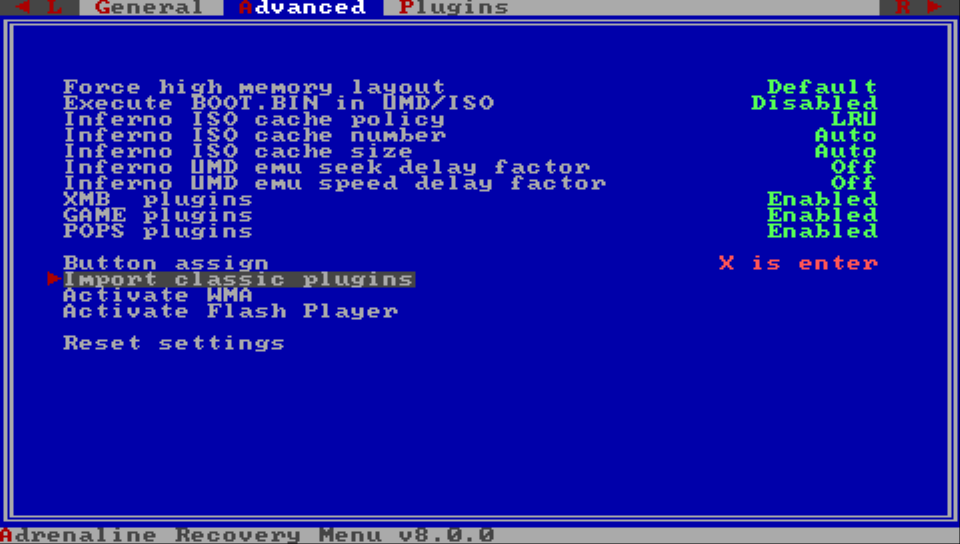
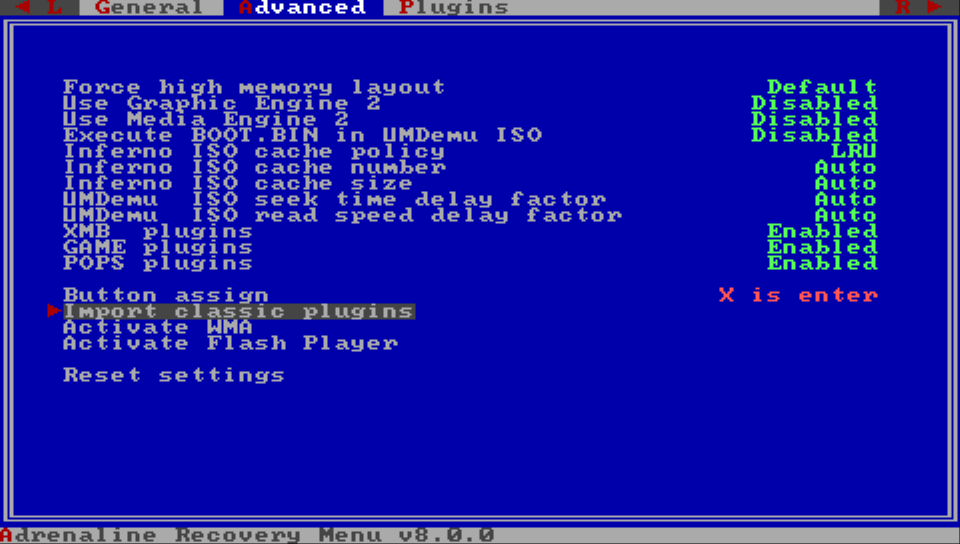
docs: Update CFW options and changelog

diff --git a/cef/recovery/menu.c b/cef/recovery/menu.c
@@ -303,9 +303,9 @@ Entry general_entries[] = {
 
 Entry advanced_entries[] = {
 	{ "Force high memory layout", NULL, highmem, sizeof(highmem), &config.force_high_memory },
-	{ "Execute BOOT.BIN in UMDemu ISO", NULL, disenabled, sizeof(disenabled), &config.execute_boot_bin },
 	{ "Use Graphic Engine 2", NULL, disenabled, sizeof(disenabled), &config.use_ge2 },
 	{ "Use Media Engine 2", NULL, disenabled, sizeof(disenabled), &config.use_me2 },
+	{ "Execute BOOT.BIN in UMDemu ISO", NULL, disenabled, sizeof(disenabled), &config.execute_boot_bin },
 	{ "Inferno ISO cache policy", NULL, iso_cache, sizeof(iso_cache), &config.iso_cache },
 	{ "Inferno ISO cache number", NULL, iso_cache_num, sizeof(iso_cache_num), &config.iso_cache_num },
 	{ "Inferno ISO cache size", NULL, iso_cache_size, sizeof(iso_cache_size), &config.iso_cache_size },

diff --git a/docs/src/08-CfwConfiguration.md b/docs/src/08-CfwConfiguration.md
@@ -175,6 +175,28 @@ Controls whether to force the unlock extra RAM space for the user-space RAM part
 > [!WARNING] Max Option Warning
 > Some important stuff for the VITA's PSPemu are put in this region of memory. Although Adrenaline protects the sub-region that was already identified, those last 16MB region usage was not yet completely investigated and reversed. That means that some system instabilities may occur once things start to be allocated on this region.
 
+### Use Graphic Engine 2
+
+Controls wether to load an alternative implementation of the Graphic Engine module, i.e. loads `ge_2.prx` instead of `ge.prx`.
+
+This is a CFW option made available to tinkerers to explore possible improvement options for apps/games (considering that native PSPemu has similar options for compatibility with officially released PSP titles on VITA). But it is also an advanced option as it may also cause regressions and/or issues with apps/games.
+
+> [!NOTE]
+> The modules being called "2" doesn't mean it is a improved version, but rather a poorly named alternative version to be used as compatibility fixer for a small number of officially released titles.
+>
+> So it is a direct effect of a bad naming because programmers (usually with tight deadlines) are bad at naming things that are very similar in functionality with another existing thing, more so in a thing that is not supposed to be known by end-users... Been there, done that LOL.
+
+### Use Media Engine 2
+
+Controls wether to load an alternative implementation of the Media Engine module, i.e. loads `kermit_me_wrapper_2.prx` instead of `kermit_me_wrapper.prx`.
+
+This is a CFW option made available to tinkerers to explore possible improvement options for apps/games (considering that native PSPemu has similar options for compatibility with officially released PSP titles on VITA). But it is also an advanced option as it may also cause regressions and/or issues with apps/games.
+
+> [!NOTE]
+> The modules being called "2" doesn't mean it is a improved version, but rather a poorly named alternative version to be used as compatibility fixer for a small number of officially released titles.
+>
+> So it is a direct effect of a bad naming because programmers (usually with tight deadlines) are bad at naming things that are very similar in functionality with another existing thing, more so in a thing that is not supposed to be known by end-users... Been there, done that LOL.
+
 ### Execute BOOT.BIN in UMDemu ISO
 
 This configuration makes the the system to execute `BOOT.BIN` file instead of `EBOOT.BIN` when launching ISO game/apps.

diff --git a/docs/src/XX-Changelog.md b/docs/src/XX-Changelog.md
@@ -22,6 +22,7 @@
 - Patch libcrypt for custom or converted PS1 game/apps
 - Add image overlay filter for PS1 game/apps
 - Add `Memory Stick Cache` to speedup I/O operations in the Memory Stick drive (`ms0`)
+- Add `Use Graphic Engine 2` and `Use Media Engine 2` advanced CFW options
 - "Fix" manual double launch on first install
 - Fix wrongly module privilege level reset on official apps and set it to user privilege level on homebrews
   - Fix `SenseMe` launch error
@@ -42,6 +43,7 @@
 	- Fix `Aces of War` by bypassing anti-CFW check
 	- Fix `Pangya Fantasy Golf` by bypassing anti-CFW check
 	- Fix freeze on `Bust-A-Move` by bypassing anti-CFW check
+	- Fix `Lego Star Wars II` WLAN switch state wrongly returning "off"
 	- Patch to remove the "overclocked" message on `ATV Pro`
 
 
